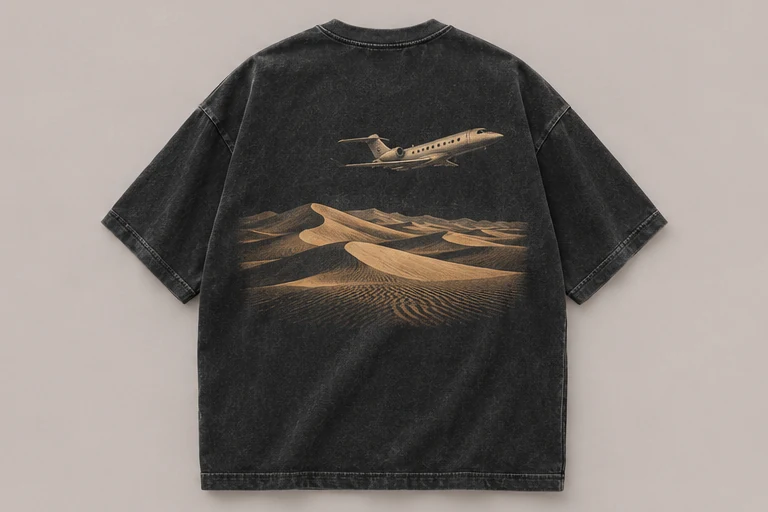
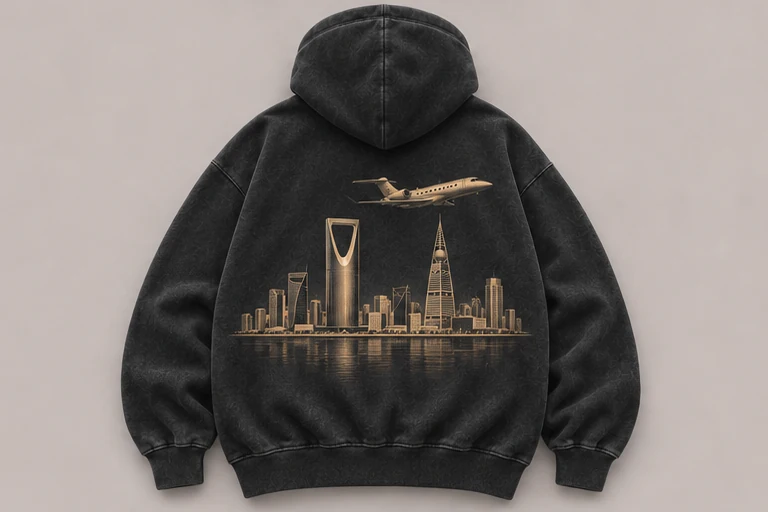
Show UAE and Riyadh edition hoodies

diff --git a/index.html b/index.html
@@ -4,7 +4,7 @@
   <meta charset="utf-8">
   <meta name="viewport" content="width=device-width, initial-scale=1">
   <title>JetMajlis | Gulf aviation apparel</title>
-  <meta name="description" content="Explore the UAE Falcon and Saudi Desert editions from JetMajlis, a Gulf aviation apparel collection.">
+  <meta name="description" content="Explore the UAE Falcon and Saudi Riyadh editions from JetMajlis, a Gulf aviation apparel collection.">
   <link rel="canonical" href="https://jetmajlis.com/">
   <link rel="stylesheet" href="/assets/merch/catalog.css">
   <script src="/assets/merch/catalog.js" defer></script>
@@ -27,7 +27,7 @@
       <p class="eyebrow">Born in Bahrain · Made for the Gulf</p>
       <h1 id="intro">Gulf aviation apparel</h1>
       <p class="intro-ar" lang="ar" dir="rtl">ملابس مستوحاة من عالم الطيران في الخليج</p>
-      <p>Explore the UAE Falcon and Saudi Desert editions.</p>
+      <p>Explore the UAE Falcon and Saudi Riyadh editions.</p>
       <p class="notice">Design previews · Ordering is closed<br><span lang="ar" dir="rtl">معاينة التصاميم · الطلبات غير متاحة</span></p>
     </div>
   </section>
@@ -39,20 +39,20 @@
       <article class="edition" id="uae">
         <h3>UAE Falcon Edition<span lang="ar" dir="rtl">إصدار صقر الإمارات</span></h3>
         <div class="views">
-          <figure><img src="/assets/merch/uae-front.webp" alt="White tee with a small falcon in UAE colours" width="768" height="512" decoding="async"><figcaption>Front <span lang="ar" dir="rtl">الأمام</span></figcaption></figure>
-          <figure><img src="/assets/merch/uae-back.webp" alt="White tee with a jet above the Dubai skyline" width="768" height="512" decoding="async"><figcaption>Back <span lang="ar" dir="rtl">الخلف</span></figcaption></figure>
+          <figure><img src="/assets/merch/uae-front.webp" alt="White hoodie with a small falcon in UAE colours" width="768" height="512" decoding="async"><figcaption>Front <span lang="ar" dir="rtl">الأمام</span></figcaption></figure>
+          <figure><img src="/assets/merch/uae-back.webp" alt="White hoodie with a jet above the Dubai skyline" width="768" height="512" decoding="async"><figcaption>Back <span lang="ar" dir="rtl">الخلف</span></figcaption></figure>
         </div>
-        <p>An oversized white tee with a falcon in UAE colours on the chest. A business jet flies above the Dubai skyline on the back.</p>
-        <p lang="ar" dir="rtl">تيشيرت أبيض بقصّة واسعة، يزيّن صدره صقر بألوان الإمارات، وعلى ظهره طائرة رجال أعمال تحلّق فوق أفق دبي.</p>
+        <p>An oversized white hoodie with a falcon in UAE colours on the chest. A business jet flies above the Dubai skyline on the back.</p>
+        <p lang="ar" dir="rtl">هودي أبيض بقصّة واسعة، يزيّن صدره صقر بألوان الإمارات، وعلى ظهره طائرة رجال أعمال تحلّق فوق أفق دبي.</p>
       </article>
       <article class="edition" id="saudi">
-        <h3>Saudi Desert Edition<span lang="ar" dir="rtl">إصدار صحراء السعودية</span></h3>
+        <h3>Saudi Riyadh Edition<span lang="ar" dir="rtl">إصدار الرياض</span></h3>
         <div class="views">
-          <figure><img src="/assets/merch/saudi-front.webp" alt="Black tee with a gold palm and crossed swords" width="768" height="512" decoding="async"><figcaption>Front <span lang="ar" dir="rtl">الأمام</span></figcaption></figure>
-          <figure><img src="/assets/merch/saudi-back.webp" alt="Black tee with a jet above desert dunes" width="768" height="512" decoding="async"><figcaption>Back <span lang="ar" dir="rtl">الخلف</span></figcaption></figure>
+          <figure><img src="/assets/merch/saudi-front.webp" alt="Black hoodie with a gold palm and crossed swords" width="768" height="512" decoding="async"><figcaption>Front <span lang="ar" dir="rtl">الأمام</span></figcaption></figure>
+          <figure><img src="/assets/merch/saudi-back.webp" alt="Black hoodie with a business jet above the Riyadh skyline" width="768" height="512" decoding="async"><figcaption>Back <span lang="ar" dir="rtl">الخلف</span></figcaption></figure>
         </div>
-        <p>An oversized black tee with a gold palm and crossed swords on the chest. The back pairs a business jet with a print of desert dunes.</p>
-        <p lang="ar" dir="rtl">تيشيرت أسود بقصّة واسعة، تزيّن صدره نخلة وسيفان متقاطعان باللون الذهبي، وعلى ظهره طبعة لطائرة رجال أعمال فوق الكثبان الرملية.</p>
+        <p>An oversized black hoodie with a gold palm and crossed swords on the chest. A business jet flies above the Riyadh skyline on the back, with Kingdom Centre and Al Faisaliah Tower in muted gold.</p>
+        <p lang="ar" dir="rtl">هودي أسود بقصّة واسعة، تزيّن صدره نخلة وسيفان متقاطعان باللون الذهبي، وعلى ظهره طائرة رجال أعمال تحلّق فوق أفق الرياض، ويبرز فيه برج المملكة وبرج الفيصلية بدرجات ذهبية هادئة.</p>
       </article>
     </div>
   </section>
